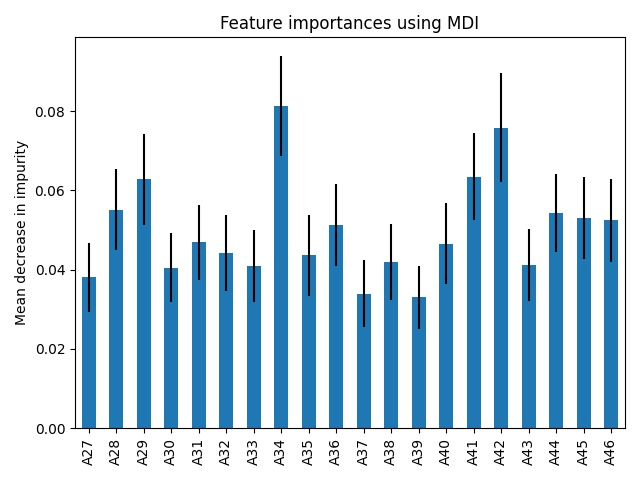
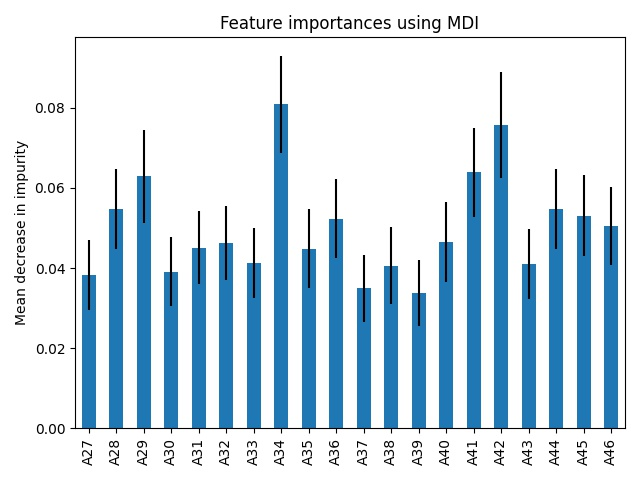
committing

diff --git a/ml_helpers.py b/ml_helpers.py
@@ -3,36 +3,38 @@ from sklearn.metrics import mean_squared_error
 from sklearn.metrics import confusion_matrix, classification_report, r2_score
 from sklearn.utils import resample
 import numpy as np
+import math
 from sklearn.metrics import confusion_matrix, precision_recall_fscore_support,\
 classification_report, roc_auc_score, f1_score, mean_absolute_error, mean_squared_error, accuracy_score
 
 def get_features_labels(df_input, input, output, includePreSI=False):
     df = df_input[:]
-    if output == 'symptom_diff':
-        labels = df[['D8', 'D9', 'D10', 'D11', 'D12', 'D13', 'D14', 'D15', 'D16', 'D17', 'D18', 'D19', 'D20',
-                     'D21', 'D22', 'D23', 'D24', 'D25', 'D26', 'D27']].copy()
-    else:
-        labels = df.loc[:,output]
     if input == 'all_data_admissions':
         strings = df.columns.tolist()
         strs = strings[:]
         for string in strs[:]:
             string_arr = list(string)
-            # if string == 'admissions_score':
-            #     pass
-            if string_arr[0] != 'A':
+            if string == output:
+                pass
+            elif string_arr[0] != 'A':
                 strs.remove(string)
             elif int(string[1:]) == 99 and not includePreSI:
                 strs.remove(string)
         remove = list(set(strings) - set(strs))
         for column in remove:
             df.pop(column)
+        df = df.dropna(thresh=df.shape[1], axis=0)
+        labels = df.loc[:, output]
+        df.pop(output)
         features = df
         return features, labels
     else:
         # features = df[['admissions_score', 'inputs_omitted']].copy()
-        features = df[['admissions_score']].copy()
-        return features, labels
+        # df = df.dropna(thresh=df.shape[1], axis=0)
+        # features = df[['admissions_score']].copy()
+        # labels = df.loc[:, output]
+        # return features, labels
+        pass
 
 def split_training_test(features, labels):
     train_features, test_features, train_labels, test_labels = train_test_split(features, labels, test_size=0.25,
@@ -69,8 +71,31 @@ def get_confidence_interval_regression(test_features, test_labels, model=None):
 
 def get_errors_and_accuracy_regression(predictions, test_labels, name):
     errors = abs(predictions - test_labels)
+    predictions = list(predictions)
+    test_labels = list(test_labels)
+    for i in range(len(test_labels)):
+        test_labels[i] += 1
+        predictions[i] += 1
+
+    test_labels = np.array(test_labels)
+    predictions = np.array(predictions)
+
+    error_percents = []
+    for i in range(len(test_labels)):
+        diff = abs(test_labels[i] - predictions[i])
+        error_per = float(diff) / test_labels[i] * 100
+        # if error_per > 49:
+        #     print(test_labels[i] , predictions[i])
+        # elif test_labels[i] > 1:
+        #     print('success')
+        error_percents.append(error_per)
+
+    mape2 = round(float(sum(error_percents))/len(error_percents), 2)
+    mape = np.mean((np.abs(predictions - test_labels) / test_labels) * 100)
+    # print(error_percents)
+    print("MAPE: " + str(mape2))
     print('Mean Absolute Error:' + name + ':', round(float(errors.mean()), 2), 'points')
-    print('MAE: ', mean_absolute_error(predictions, test_labels))
+    # print('MAE: ', mean_absolute_error(predictions, test_labels))
     print('MSE: ', mean_squared_error(predictions, test_labels))
     # if rf is not None:
     #     get_stats_classification(test_features, test_labels, model=rf)
@@ -89,11 +114,11 @@ def get_baseline_predictions(test_features):
         if cluster_score < 8:
             predictions.append(0.0)
         elif cluster_score < 14:
-            predictions.append(1.0)
+            predictions.append(0.0)
         elif cluster_score < 21:
-            predictions.append(2.0)
+            predictions.append(1.0)
         else:
-            predictions.append(3.0)
+            predictions.append(2.0)
 
     df_return = np.asarray(predictions)
     return df_return

diff --git a/rf.py b/rf.py
@@ -1,4 +1,4 @@
-from sklearn.ensemble import RandomForestClassifier
+from sklearn.ensemble import RandomForestClassifier, RandomForestRegressor
 from ml_helpers import *
 from metric_outputs import *
 
@@ -7,26 +7,15 @@ def run_random_forest_model(features, labels, name, baseline=False, supress_debu
 
     if baseline:
         predictions = get_baseline_predictions(test_features)
+        (predictions, test_labels, 'BASELINE_' + str(name))
         get_errors_and_accuracy_regression(predictions, test_labels, 'BASELINE_' + str(name))
         print()
 
-    rf = RandomForestClassifier(n_estimators=1000, random_state=42, bootstrap=True)
+    rf = RandomForestClassifier(n_estimators=3000, random_state=42, bootstrap=True)
     rf.fit(train_features, train_labels)
     predictions = rf.predict(test_features)
     # print(predictions)
 
     get_errors_and_accuracy_regression(predictions, test_labels, name)
+    # get_stats_classification(test_features, test_labels, rf)
     generate_and_save_rf_importances(train_features, name, rf)
-
-    if not supress_debug:
-        output_reality = {0:0, 1:0, 2:0, 3:0}
-        for value in test_labels:
-            if value == 1:
-                output_reality[1] += 1
-            elif value == 2:
-                output_reality[2] += 1
-            elif value == 3:
-                output_reality[3] += 1
-            elif value == 0:
-                output_reality[0] += 1
-        print('output reality ' + str(output_reality) + ' ' + str(len(test_labels)))

diff --git a/data_cleaning.py b/data_cleaning.py
@@ -13,12 +13,7 @@ def remove_unnecessary_columns(input_file):
         data.pop(column)
 
     # drop the row if any of the values are null
-    data_new = data.dropna(thresh=data.shape[1], axis=0)
-    # num_items_dropped = data.shape[0] - data_new.shape[0]
-    # print('Total Data Points: ' + str(data.shape[0]))
-    # print('Usable Data Points ' + str(data_new.shape[0]))
-    # print('\nThis many rows had a null value ' + str(num_items_dropped))
-    return data_new
+    return data
 
 def find_unnecessary_columns(input_file):
     data = pd.read_csv(input_file)

diff --git a/lr.py b/lr.py
@@ -7,7 +7,7 @@ def run_logistical_regression_model(features, labels, name, baseline=False, supr
     train_features, test_features, train_labels, test_labels = split_training_test(features, labels)
     if baseline:
         print('BASELINE')
-        # get_stats_classification(test_features, test_labels, model='baseline')
+        get_stats_classification(test_features, test_labels, model='baseline')
         print()
 
     rf = LogisticRegression(class_weight='balanced', random_state=50, max_iter=1000)

diff --git a/gbc.py b/gbc.py
@@ -8,7 +8,7 @@ def run_gradient_boosting_classifier_model(features, labels, name, baseline=Fals
     train_features, test_features, train_labels, test_labels = split_training_test(features, labels)
     if baseline:
         print('BASELINE')
-        # get_stats_classification(test_features, test_labels, model='baseline')
+        get_stats_classification(test_features, test_labels, model='baseline')
         print()
 
     rf = GradientBoostingClassifier(learning_rate=0.009, max_depth=8,

diff --git a/rf_treatment_improvement.py b/rf_treatment_improvement.py
@@ -30,7 +30,7 @@ def run_treatment_improvement_models(df_all):
     print('*' * 50)
     print('TREATMENT IMPROVEMENT MODELS')
     print('*' * 50)
-    predict_diff_score_w_all_admissions(df_all)
+    # predict_diff_score_w_all_admissions(df_all)
     # predict_diff_score_w_admissions_score(df_all)
     #
     # predict_discharge_score_w_all_admissions(df_all)

diff --git a/main.py b/main.py
@@ -24,6 +24,6 @@ if __name__ == "__main__":
     # get_admissions_discharge_score_metrics(df_all)
 
     run_SHI_rf_models(df_all)
-    run_SHI_lr_models(df_all)
-    run_SHI_gbc_models(df_all)
-    # run_treatment_improvement_models(df_all)
+    # run_SHI_lr_models(df_all)
+    # run_SHI_gbc_models(df_all)
+    run_treatment_improvement_models(df_all)

diff --git a/rf_SHI.py b/rf_SHI.py
@@ -18,6 +18,6 @@ def run_SHI_rf_models(df_all):
     print('SELF HARM IDEATION MODELS RANDOM FOREST CLASSIFIER')
     print('*' * 50)
 
-    # predict_SI_pre_treatment(df_all)
+    predict_SI_pre_treatment(df_all)
     # predict_SI_post_treatment_w_pre_SI(df_all)
     predict_SI_post_treatment_wo_pre_SI(df_all)
